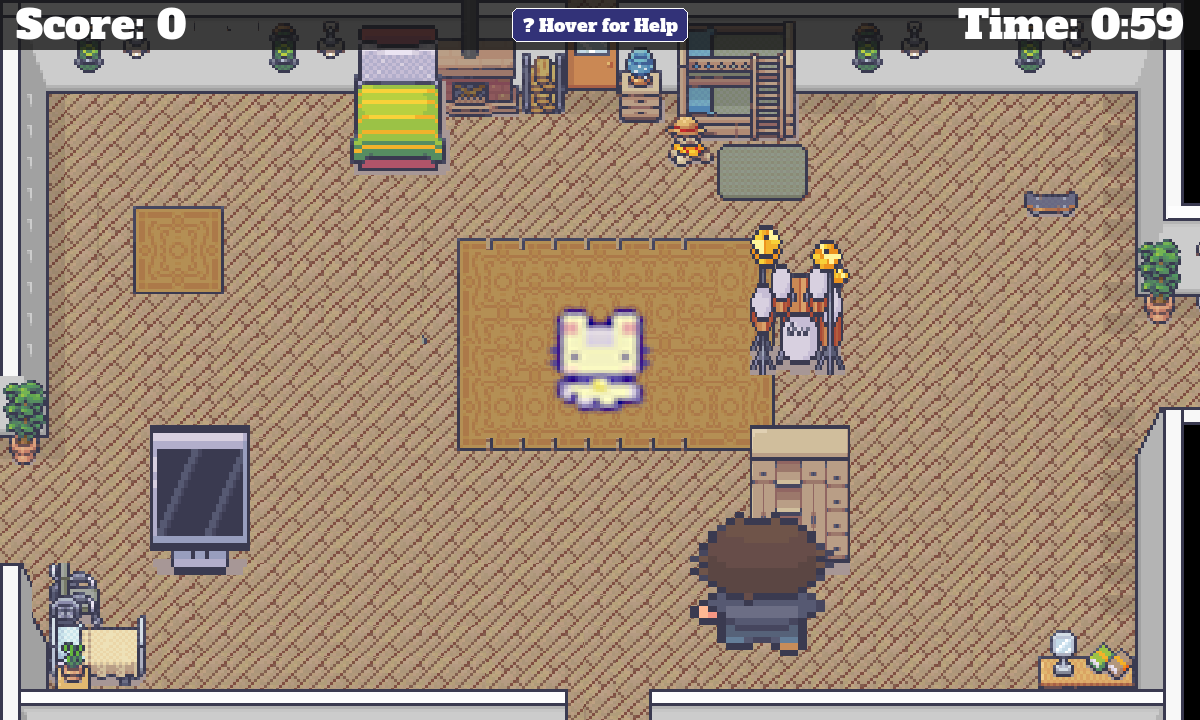
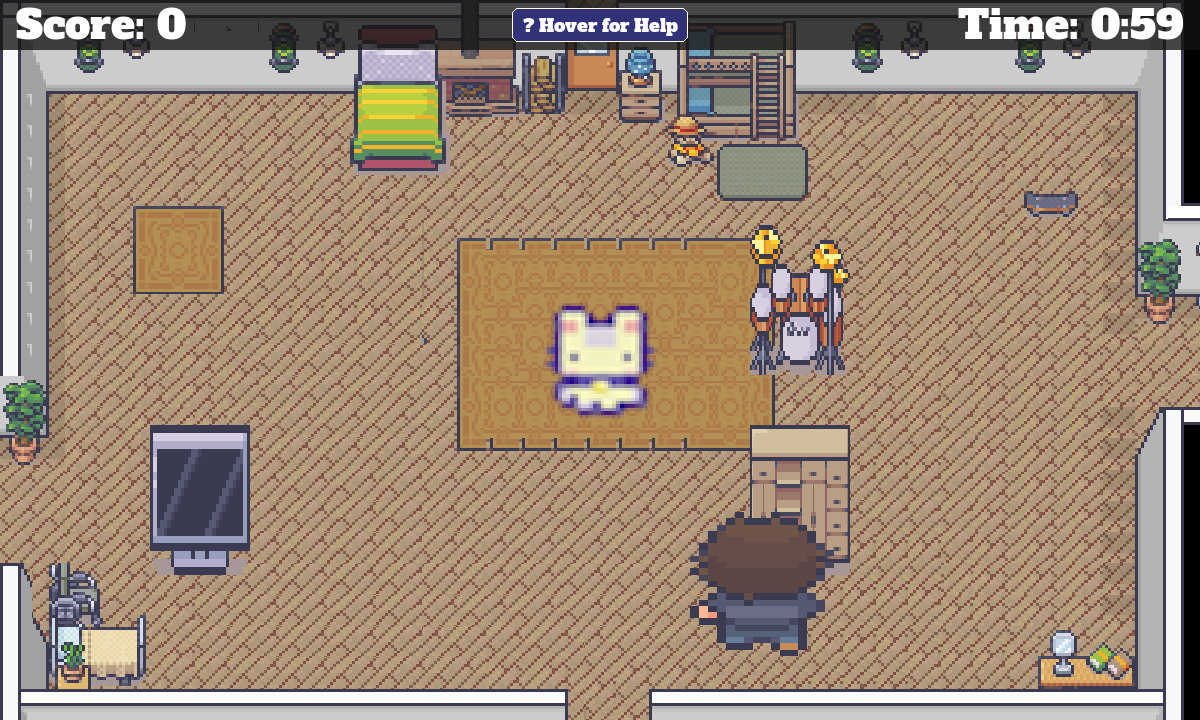
fix(art): Sally to 4/5 of NPC size (115px render)
PLAYER_RENDER_SIZE 108->115 (NPC stays 144); dog is now 4/5 the human height.
Hitboxes unchanged, 126 tests pass.

Changed region(s): [[0.4625, 0.3972, 0.555, 0.5806]]

diff --git a/game/config.py b/game/config.py
@@ -42,10 +42,10 @@ CAPTION = "ChocolateThunder2: ElectricBoogaloo"
 LEVEL_SECONDS = 60          # countdown per level
 PLAYER_SPEED = 5            # px/frame toward the click target
 PLAYER_SIZE = (40, 40)      # Sally's hitbox (collision footprint — kept small/nimble)
-PLAYER_RENDER_SIZE = (108, 108)  # Sally drawn size (a dog ~3/4 of an NPC)
+PLAYER_RENDER_SIZE = (115, 115)  # Sally drawn size (a dog ~4/5 of an NPC)
 NPC_SPEED = 2.2
 NPC_SIZE = (60, 60)         # tenant hitbox (catch box) — larger body than Sally
-NPC_RENDER_SIZE = (144, 144)    # tenant drawn size (a person, Sally is 3/4 of this)
+NPC_RENDER_SIZE = (144, 144)    # tenant drawn size (a person, Sally is 4/5 of this)
 NPC_CHASE_RADIUS = 300      # start chasing within this distance
 NUM_OBSTACLES = 4
 OBSTACLE_SIZE = (100, 150)

diff --git a/.claude/changelog.md b/.claude/changelog.md
@@ -19,9 +19,9 @@ All notable changes to ChocolateThunder2: ElectricBoogaloo are documented here.
   pixellab set adds the T-rex.
 - Provenance (character IDs) recorded in `sbom.md §4c`.
 - **Realistic character proportions**: decoupled drawn size from the collision hitbox —
-  `PLAYER_RENDER_SIZE` (108) and `NPC_RENDER_SIZE` (144) drive the sprite while
+  `PLAYER_RENDER_SIZE` (115) and `NPC_RENDER_SIZE` (144) drive the sprite while
   `PLAYER_SIZE`/`NPC_SIZE` remain the hitboxes (gameplay feel unchanged). Sally (dog) is
-  3/4 the NPC size; tenants now read human-height against the furniture. Affects both art sets.
+  4/5 the NPC size; tenants now read human-height against the furniture. Affects both art sets.
 
 ### Verified
 - 125 tests pass (original mode); in-engine render of all 4 levels under `CT2_ART_SET=pixellab`
